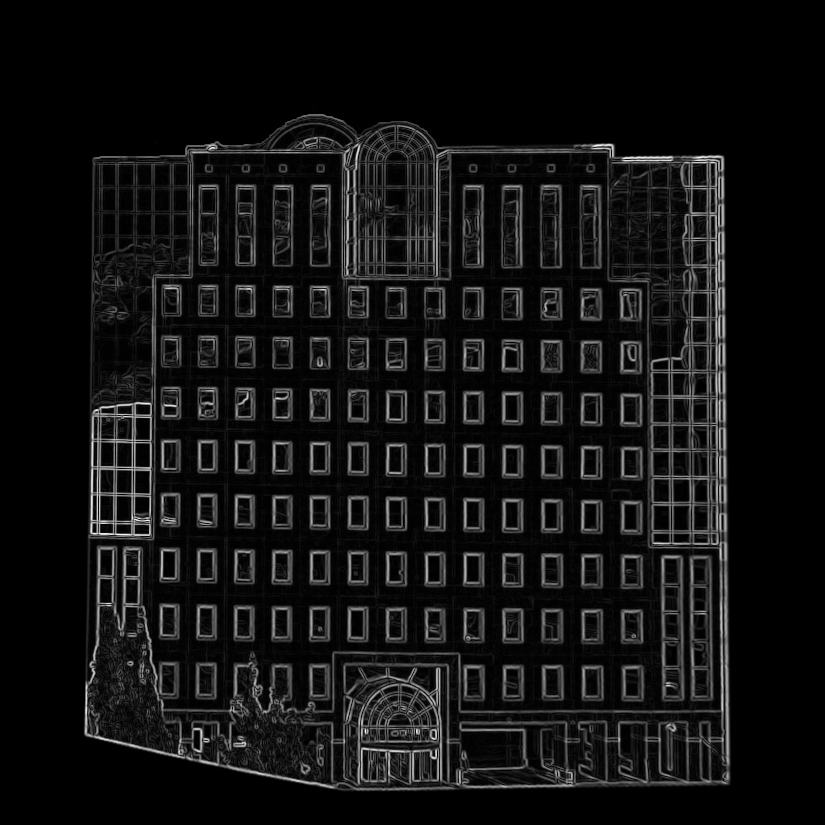
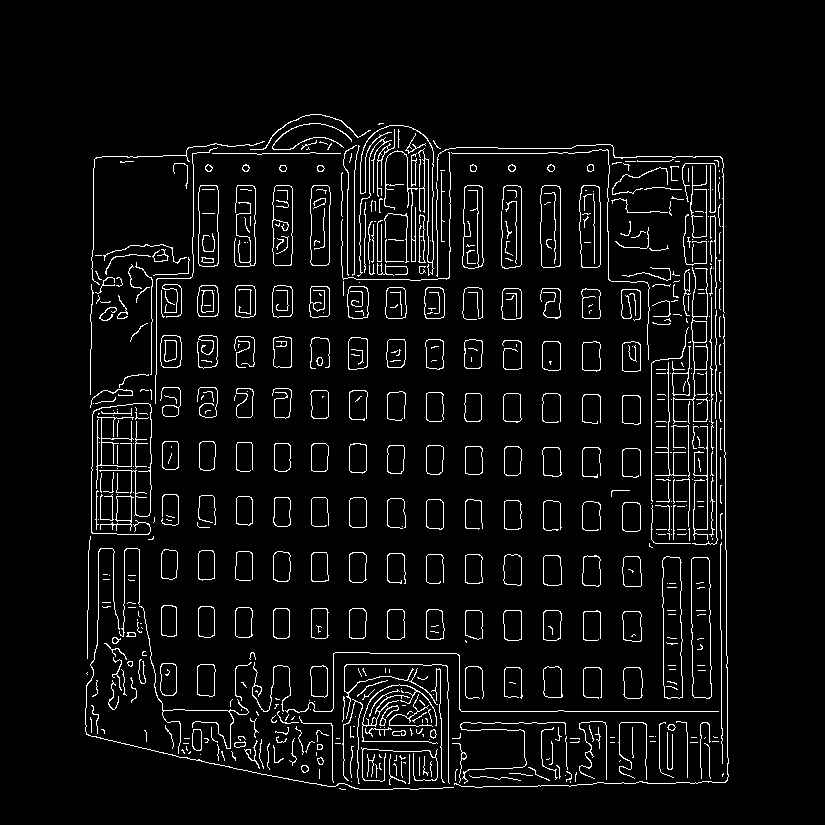
Added Dream edge images

Changed region(s): [[0.0909, 0.1212, 0.9091, 0.9697]]

diff --git a/edge/plot_contours.py b/edge/plot_contours.py
@@ -1,0 +1,45 @@
+"""
+===============
+Contour finding
+===============
+
+We use a marching squares method to find constant valued contours in an image.
+In ``skimage.measure.find_contours``, array values are linearly interpolated
+to provide better precision of the output contours. Contours which intersect
+the image edge are open; all others are closed.
+
+The `marching squares algorithm
+<http://www.essi.fr/~lingrand/MarchingCubes/algo.html>`__ is a special case of
+the marching cubes algorithm (Lorensen, William and Harvey E. Cline. Marching
+Cubes: A High Resolution 3D Surface Construction Algorithm. Computer Graphics
+(SIGGRAPH 87 Proceedings) 21(4) July 1987, p. 163-170).
+
+"""
+import numpy as np
+import matplotlib.pyplot as plt
+
+from skimage import measure
+from skimage import io
+import os
+
+# Construct some test data
+#x, y = np.ogrid[-np.pi:np.pi:100j, -np.pi:np.pi:100j]
+#r = np.sin(np.exp((np.sin(x)**3 + np.cos(y)**2)))
+cwd = os.getcwd()
+input_dir = cwd + "/out"
+r = io.imread(input_dir + "/DREAM-COLOR/DREAM-COLORMod40.png")#[300:][300:]
+
+# Find contours at a constant value of 0.8
+contours = measure.find_contours(r, 0.8)
+
+# Display the image and plot all contours found
+fig, ax = plt.subplots()
+ax.imshow(r, interpolation='nearest', cmap=plt.cm.gray)
+
+for n, contour in enumerate(contours):
+    ax.plot(contour[:, 1], contour[:, 0], linewidth=2)
+
+ax.axis('image')
+ax.set_xticks([])
+ax.set_yticks([])
+plt.show()

diff --git a/edge/absolute.py b/edge/absolute.py
@@ -15,20 +15,19 @@ new_dir = cwd + "/out"
 if not os.path.exists(new_dir):
     os.makedirs(new_dir)
 
+# Get images within the in folder
 images = os.listdir(input_dir)
 for file in images[:]:
     if not(file.endswith(".png")):
            images.remove(file)
 
 # Make output directory
-
-
 for image in images:
     new_image_dir = new_dir + "/" + image.split(".")[0]
     if not os.path.exists(new_image_dir):
         os.makedirs(new_image_dir)
 
-# Loop
+# Loop for every pixel, and givene a threshold, turn it black or white
 for image in images:
     picture = Image.open(input_dir + "/" + image)
     new_image_dir = new_dir + "/" + image.split(".")[0]

diff --git a/edge/detect_edge.py b/edge/detect_edge.py
@@ -24,13 +24,13 @@ for image in images:
     im = rgb2gray(io.imread(input_dir + "/" + image))
 
     #edges1 = feature.canny(im)
-    #edges2 = feature.canny(im, sigma=3)
+    edges2 = feature.canny(im, sigma=2)
     #edges3 = roberts(im)
     #edges4 = sobel(im)
     #edges5 = scharr(im)
-    edges6 = prewitt(im)
+    #edges6 = prewitt(im)
 
-    scipy.misc.imsave(mid_dir + "/" + image_name + '.png', edges6)
+    scipy.misc.imsave(mid_dir + "/" + image_name + '.png', edges2)
  
 """
 fig, (ax1, ax2, ax3, ax4, ax5, ax6) = plt.subplots(nrows=1, ncols=6, figsize=(10,5),
